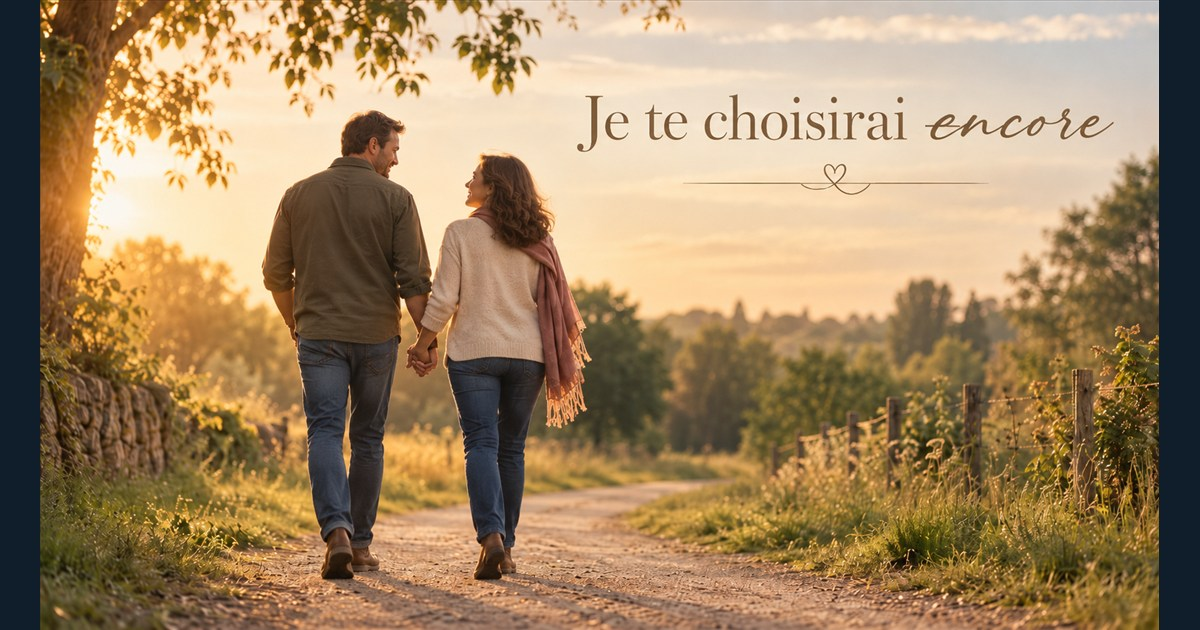
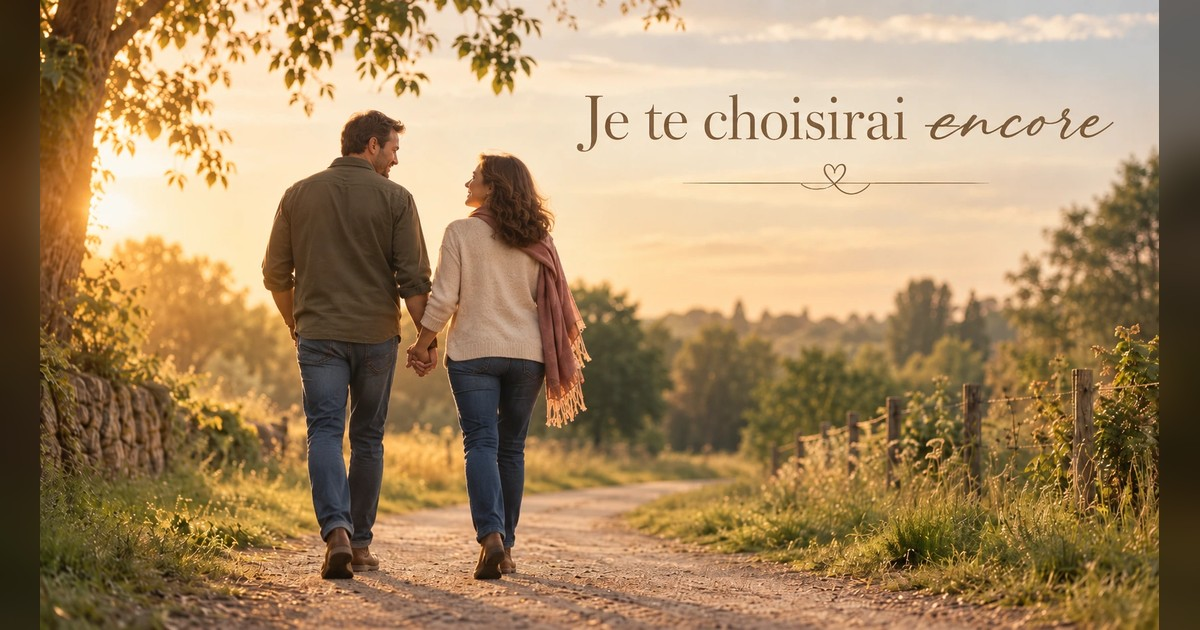
new song

Changed region(s): [[0.9558, 0.0, 1.0, 1.0], [0.0, 0.0, 0.0308, 1.0], [0.1542, 0.8444, 0.185, 0.8746]]

diff --git a/index.html b/index.html
@@ -20,17 +20,17 @@
   <meta name="twitter:image" content="https://jncstudiopro.github.io/One-Faith-Musics/assets/social/une-meme-foi.jpg">
   <meta name="robots" content="noindex, nofollow">
   <meta name="theme-color" content="#101e2b">
-  <meta name="site-version" content="1.0015">
+  <meta name="site-version" content="1.0018">
   <script>fetch(`site-version.json?t=${Date.now()}`,{cache:'no-store'}).then(response=>response.ok?response.json():null).then(data=>{const current=document.querySelector('meta[name="site-version"]')?.content;if(data?.version&&data.version!==current){const url=new URL(location.href);if(url.searchParams.get('v')!==data.version){url.searchParams.set('v',data.version);location.replace(url);}}}).catch(()=>{});</script>
-  <link rel="icon" href="assets/favicon.svg?v=1.0015" type="image/svg+xml">
-  <link rel="stylesheet" href="style.css?v=1.0015">
-  <script src="catalogue.js?v=1.0015" defer></script><script src="app.js?v=1.0015" defer></script><script src="i18n.js?v=1.0015" defer></script>
+  <link rel="icon" href="assets/favicon.svg?v=1.0018" type="image/svg+xml">
+  <link rel="stylesheet" href="style.css?v=1.0018">
+  <script src="catalogue.js?v=1.0018" defer></script><script src="app.js?v=1.0018" defer></script><script src="i18n.js?v=1.0018" defer></script>
 </head>
 <body>
   <a class="skip" href="#catalogue">Aller aux chansons</a>
   <header class="masthead"><a class="brand" href="./" aria-label="One Faith Musics, accueil"><span class="brand-mark" aria-hidden="true">♫</span><span>One Faith <span class="brand-light">Musics</span></span></a><span class="header-note">LA FOI EN MUSIQUE</span><label class="site-language"><span>Langue du site</span><select id="site-language"><option value="fr">Français</option><option value="en">English</option><option value="es">Español</option></select></label><a class="catalogue-link" href="#catalogue">Les chansons <span aria-hidden="true">↗</span></a></header>
   <main>
-    <section class="intro" aria-labelledby="intro-title"><div class="intro-copy"><p class="eyebrow">DERNIÈRE SORTIE</p><h1 id="intro-title">Des mélodies.<br>Une même <em>foi.</em></h1><p class="intro-text">Des chansons pour tourner nos pensées vers Jéhovah, trouver du réconfort et faire vivre notre espérance.</p><div id="latest-release"><p id="latest-title"></p><time id="latest-date"></time><br><a class="intro-link" id="latest-link" href="#catalogue">Découvrir la chanson <span aria-hidden="true">↓</span></a></div></div><div class="intro-art"><img src="assets/une-meme-foi.webp?v=1.0015" alt="Des générations de fidèles réunies sur un chemin dans une lumière dorée" width="1672" height="941"><span class="art-caption">Tant de noms, une même foi</span></div></section>
+    <section class="intro" aria-labelledby="intro-title"><div class="intro-copy"><p class="eyebrow">DERNIÈRE SORTIE</p><h1 id="intro-title">Des mélodies.<br>Une même <em>foi.</em></h1><p class="intro-text">Des chansons pour tourner nos pensées vers Jéhovah, trouver du réconfort et faire vivre notre espérance.</p><div id="latest-release"><p id="latest-title"></p><time id="latest-date"></time><br><a class="intro-link" id="latest-link" href="#catalogue">Découvrir la chanson <span aria-hidden="true">↓</span></a></div></div><div class="intro-art"><img src="assets/une-meme-foi.webp?v=1.0018" alt="Des générations de fidèles réunies sur un chemin dans une lumière dorée" width="1672" height="941"><span class="art-caption">Tant de noms, une même foi</span></div></section>
     <section class="collection" id="catalogue" aria-labelledby="collection-title"><div class="collection-heading"><div><p class="eyebrow">LE CATALOGUE</p><h2 id="collection-title" tabindex="-1">À chaque instant, une chanson.</h2></div><span id="result-count" role="status" aria-live="polite"></span></div>
       <div class="toolbar"><div id="active-theme" hidden><span id="active-theme-name"></span> <button class="action" id="clear-theme">Toutes les chansons ×</button></div><div class="preferences"><label>Langue des chansons<select id="language"><option value="all">Toutes les langues</option><option value="fr">Français</option><option value="en">English</option><option value="es">Español</option></select></label><label>Par page<select id="page-size"><option value="6">6 chansons</option><option value="12">12 chansons</option><option value="24">24 chansons</option><option value="all">Toutes</option></select></label><label class="column-control">Présentation<select id="columns"><option value="2">2 colonnes</option><option value="3">3 colonnes</option></select></label><div class="catalogue-playback"><button class="primary" id="play-visible">▶ Tout écouter</button><button class="action" id="show-playlist">☷ Ma liste <span id="playlist-count">0</span></button></div></div></div>
       <div class="song-grid" id="song-grid"></div><div class="empty" id="empty" hidden><span aria-hidden="true">♫</span><h3>Une nouvelle langue, bientôt.</h3><p>Aucune chanson n’est encore disponible avec ces filtres.</p><button id="reset-filters" class="primary">Voir toutes les chansons</button></div>

diff --git a/catalogue.js b/catalogue.js
@@ -205,7 +205,7 @@ window.JEHOVAH_CATALOGUE = [
     {
         "id":  "je-te-choisirai-encore",
         "title":  "Je te choisirai encore",
-        "image":  "assets/je-te-choisirai-encore.png",
+        "image":  "assets/je-te-choisirai-encore.webp",
         "portrait":  false,
         "description":  "Un amour qui se construit dans le temps, avec ses détours, ses imperfections et ses pardons. Une promesse simple : continuer à se choisir, jour après jour, avec tendresse, respect et fidélité.",
         "album":  "Une même foi",
@@ -242,5 +242,49 @@ window.JEHOVAH_CATALOGUE = [
                      },
         "style":  "Chanson romantique engagée",
         "trackNumber":  1
+    },
+    {
+        "id":  "on-vous-doit-tant",
+        "title":  "On vous doit tant",
+        "image":  "assets/on-vous-doit-tant.webp",
+        "portrait":  false,
+        "description":  "",
+        "album":  "Une même foi",
+        "tags":  [
+                     "Personnages bibliques",
+                     "Humour",
+                     "Foi",
+                     "Courage",
+                     "Compassion",
+                     "Loyauté",
+                     "Une même foi"
+                 ],
+        "versions":  {
+                         "fr":  {
+                                    "albumId":  "une-meme-foi",
+                                    "releaseDate":  "2026-09-20",
+                                    "lastUpdated":  "2026-09-20",
+                                    "youtube":  null,
+                                    "audio":  null,
+                                    "audioId":  null,
+                                    "karaokeYoutube":  null,
+                                    "karaokeAudio":  null,
+                                    "karaokeAudioId":  null,
+                                    "karaokeProYoutube":  null,
+                                    "karaokeProAudio":  null,
+                                    "karaokeProAudioId":  null,
+                                    "lyrics":  null,
+                                    "timing":  null,
+                                    "karaokeTiming":  null,
+                                    "karaokeProTiming":  null,
+                                    "downloads":  {
+                                                      "mp4":  null,
+                                                      "mp3":  null,
+                                                      "score":  null
+                                                  }
+                                }
+                     },
+        "style":  "Conte musical humoristique",
+        "trackNumber":  7
     }
 ];

diff --git a/partage/on-vous-doit-tant-fr.html b/partage/on-vous-doit-tant-fr.html
@@ -1,0 +1,33 @@
+<!doctype html>
+<!-- Généré par le Gestionnaire One Faith Musics. -->
+<html lang="fr">
+<head>
+  <meta charset="utf-8">
+  <meta name="viewport" content="width=device-width,initial-scale=1">
+  <title>On vous doit tant — One Faith Musics</title>
+  <meta name="description" content="&#201;coutez cette chanson sur One Faith Musics.">
+  <meta name="robots" content="noindex,follow">
+  <link rel="canonical" href="https://jncstudiopro.github.io/One-Faith-Musics/partage/on-vous-doit-tant-fr.html">
+  <meta property="og:type" content="website">
+  <meta property="og:site_name" content="One Faith Musics">
+  <meta property="og:locale" content="fr_CA">
+  <meta property="og:title" content="On vous doit tant — One Faith Musics">
+  <meta property="og:description" content="&#201;coutez cette chanson sur One Faith Musics.">
+  <meta property="og:url" content="https://jncstudiopro.github.io/One-Faith-Musics/partage/on-vous-doit-tant-fr.html">
+  <meta property="og:image" content="https://jncstudiopro.github.io/One-Faith-Musics/assets/social/on-vous-doit-tant.jpg">
+  <meta property="og:image:secure_url" content="https://jncstudiopro.github.io/One-Faith-Musics/assets/social/on-vous-doit-tant.jpg">
+  <meta property="og:image:type" content="image/jpeg">
+  <meta property="og:image:width" content="1200">
+  <meta property="og:image:height" content="630">
+  <meta property="og:image:alt" content="On vous doit tant">
+  <meta name="twitter:card" content="summary_large_image">
+  <meta name="twitter:title" content="On vous doit tant — One Faith Musics">
+  <meta name="twitter:description" content="&#201;coutez cette chanson sur One Faith Musics.">
+  <meta name="twitter:image" content="https://jncstudiopro.github.io/One-Faith-Musics/assets/social/on-vous-doit-tant.jpg">
+  <script>location.replace("../?song=on-vous-doit-tant\u0026lang=fr");</script>
+</head>
+<body>
+  <p>Ouverture de « On vous doit tant »…</p>
+  <p><a href="../?song=on-vous-doit-tant&amp;lang=fr">Continuer vers One Faith Musics</a></p>
+</body>
+</html>

diff --git a/conditions.html b/conditions.html
@@ -3,10 +3,10 @@
 <head>
   <meta charset="utf-8">
   <meta name="viewport" content="width=device-width,initial-scale=1">
-  <meta name="site-version" content="1.0015">
+  <meta name="site-version" content="1.0018">
   <meta name="description" content="Conditions d’utilisation et politique de droits d’auteur de One Faith Musics.">
   <title>Conditions d’utilisation — One Faith Musics</title>
-  <link rel="stylesheet" href="style.css?v=1.0015">
+  <link rel="stylesheet" href="style.css?v=1.0018">
 </head>
 <body>
 <main class="legal-page">
